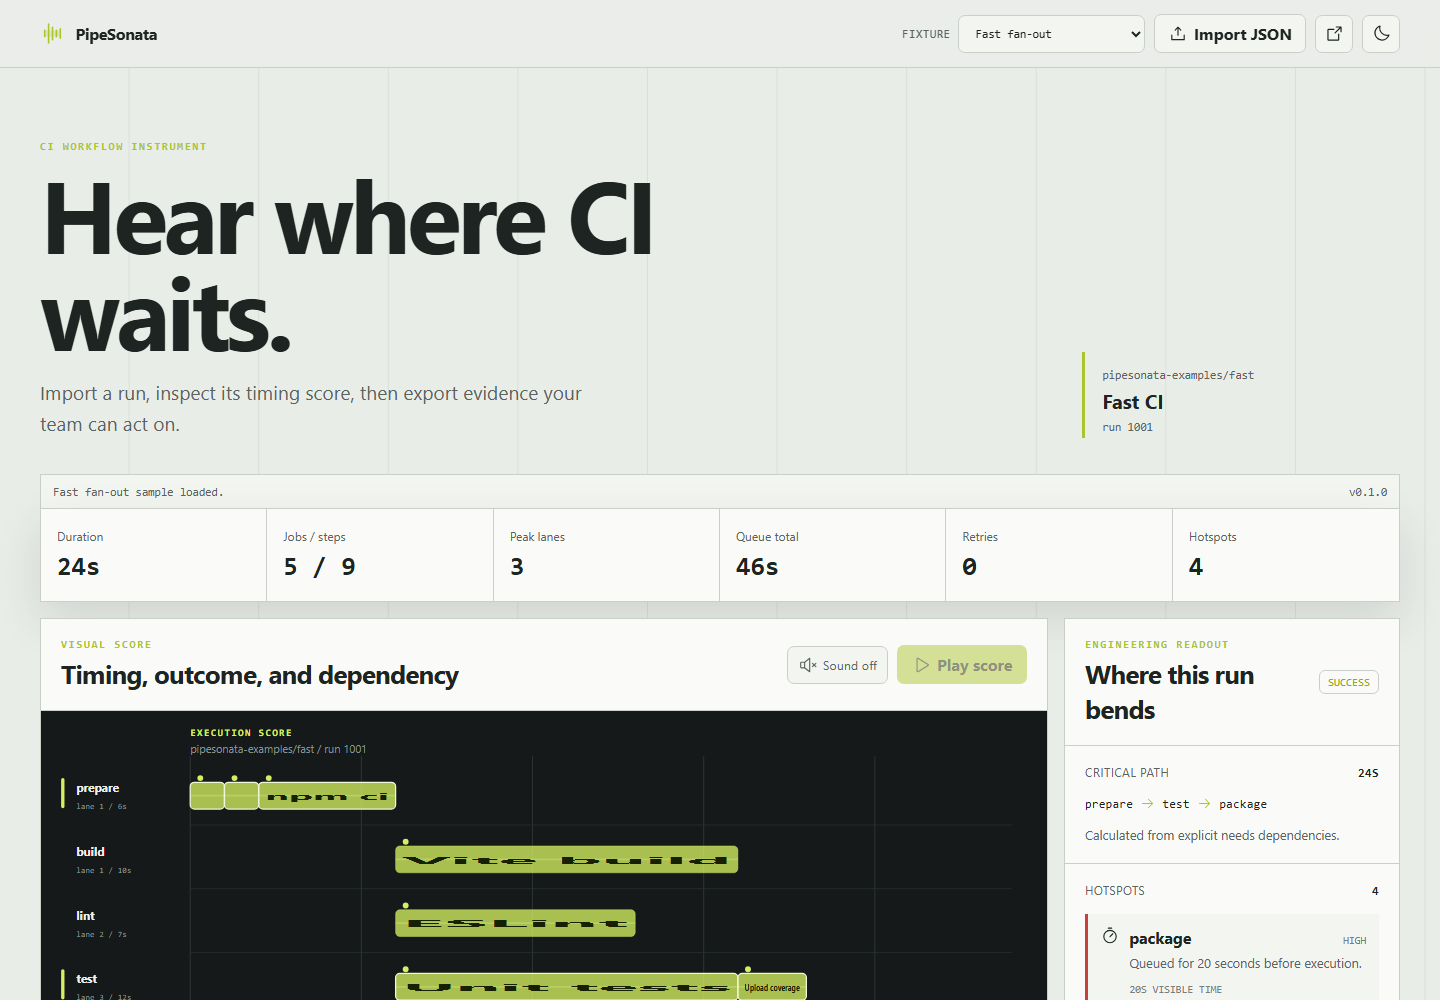
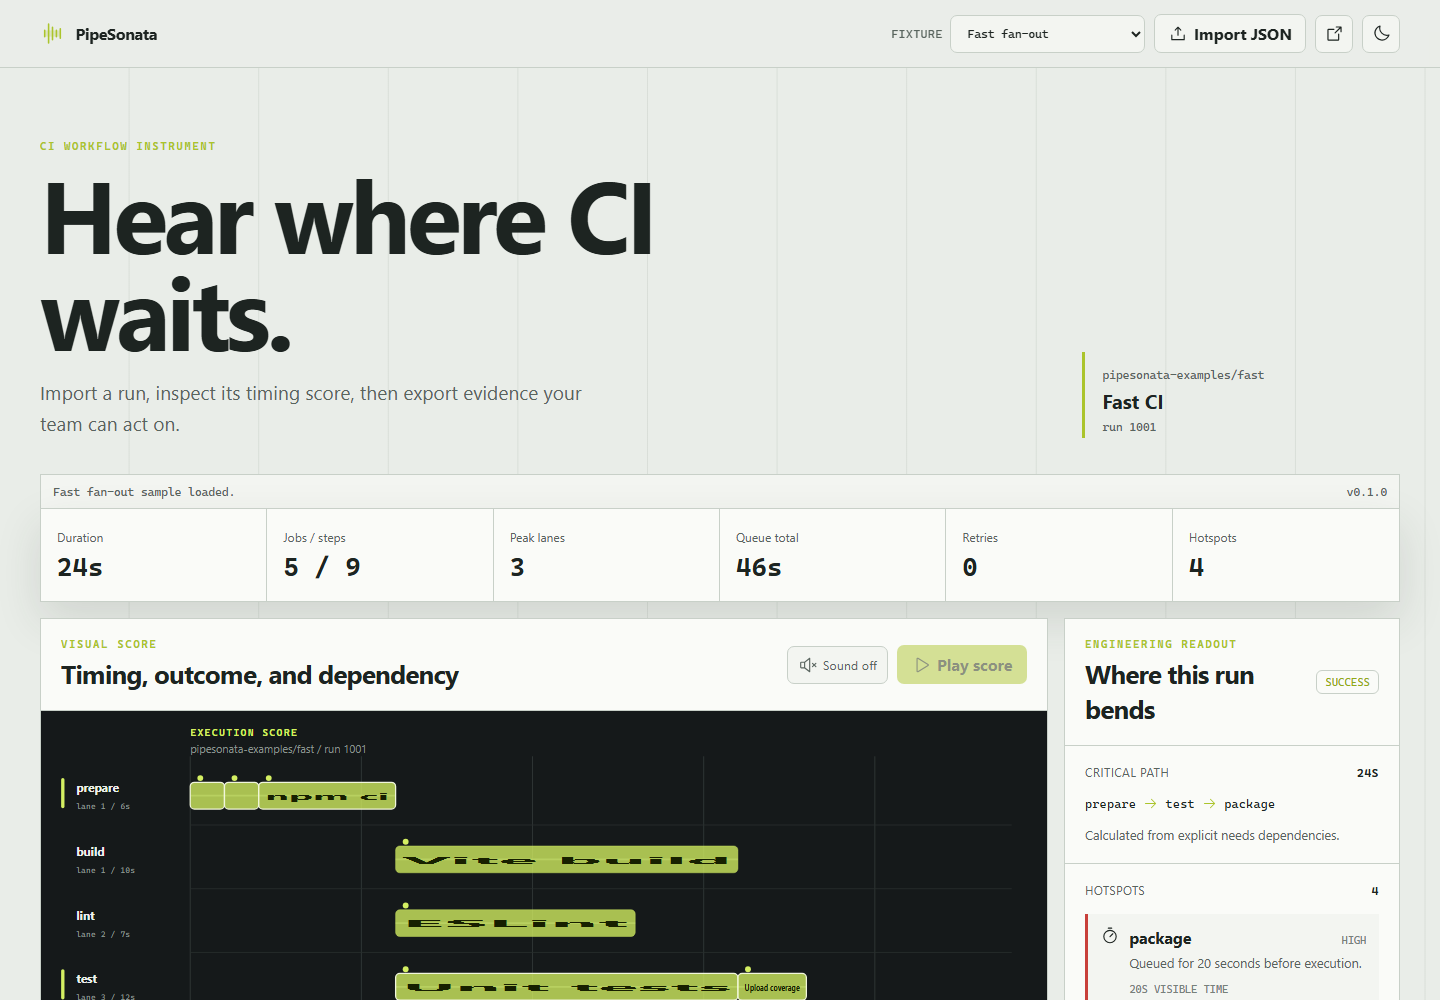
release: prepare v0.1.0

diff --git a/tests/integration/toolingScripts.test.ts b/tests/integration/toolingScripts.test.ts
@@ -1,0 +1,80 @@
+import { spawnSync } from "node:child_process";
+import { copyFile, mkdir, mkdtemp, rm, unlink, writeFile } from "node:fs/promises";
+import { tmpdir } from "node:os";
+import path from "node:path";
+
+import { afterEach, describe, expect, it } from "vitest";
+
+const temporaryDirectories: string[] = [];
+
+function runGit(cwd: string, arguments_: string[]) {
+  const result = spawnSync("git", arguments_, { cwd, encoding: "utf8" });
+  if (result.status !== 0) {
+    throw new Error(result.stderr || result.stdout);
+  }
+}
+
+afterEach(async () => {
+  await Promise.all(
+    temporaryDirectories
+      .splice(0)
+      .map((directory) => rm(directory, { recursive: true, force: true })),
+  );
+});
+
+describe("release tooling", () => {
+  it("skips tracked paths deleted during a rename while scanning new files", async () => {
+    const fixtureRoot = await mkdtemp(path.join(tmpdir(), "pipesonata-secret-scan-"));
+    temporaryDirectories.push(fixtureRoot);
+    const scriptsDirectory = path.join(fixtureRoot, "scripts");
+    await mkdir(scriptsDirectory);
+    await writeFile(path.join(fixtureRoot, "deleted.txt"), "safe tracked content\n", "utf8");
+    await writeFile(path.join(fixtureRoot, "kept.txt"), "safe working content\n", "utf8");
+    runGit(fixtureRoot, ["init"]);
+    runGit(fixtureRoot, ["add", "deleted.txt", "kept.txt"]);
+    await unlink(path.join(fixtureRoot, "deleted.txt"));
+    await copyFile(
+      path.resolve("scripts", "scan-secrets.mjs"),
+      path.join(scriptsDirectory, "scan-secrets.mjs"),
+    );
+    await copyFile(
+      path.resolve("scripts", "git_files.mjs"),
+      path.join(scriptsDirectory, "git_files.mjs"),
+    );
+
+    const scan = spawnSync(process.execPath, [path.join(scriptsDirectory, "scan-secrets.mjs")], {
+      cwd: fixtureRoot,
+      encoding: "utf8",
+    });
+
+    expect(scan.status, scan.stderr).toBe(0);
+    expect(scan.stdout).toContain("Secret scan passed");
+  });
+
+  it("creates an archive from a non-ASCII workspace with relative tar paths", async () => {
+    const fixtureRoot = await mkdtemp(path.join(tmpdir(), "pipesonata-tar-"));
+    temporaryDirectories.push(fixtureRoot);
+    const workspace = path.join(fixtureRoot, "管道乐章");
+    await mkdir(path.join(workspace, "staging", "package"), { recursive: true });
+    await mkdir(path.join(workspace, "release"), { recursive: true });
+    await writeFile(
+      path.join(workspace, "staging", "package", "result.txt"),
+      "real release content\n",
+      "utf8",
+    );
+
+    const archive = spawnSync(
+      "tar",
+      ["-czf", "release/package.tar.gz", "-C", "staging", "package"],
+      { cwd: workspace, encoding: "utf8" },
+    );
+    expect(archive.status, archive.stderr).toBe(0);
+
+    const listing = spawnSync("tar", ["-tzf", "release/package.tar.gz"], {
+      cwd: workspace,
+      encoding: "utf8",
+    });
+    expect(listing.status, listing.stderr).toBe(0);
+    expect(listing.stdout).toContain("package/result.txt");
+  });
+});

diff --git a/vite.config.ts b/vite.config.ts
@@ -11,6 +11,9 @@ export default defineConfig({
   test: {
     environment: "jsdom",
     include: ["tests/unit/**/*.test.ts", "tests/integration/**/*.test.ts"],
+    // The release-tooling tests spawn tar and Git subprocesses. Running test
+    // files serially keeps the verification run reliable on Windows runners.
+    fileParallelism: false,
     coverage: {
       provider: "v8",
       reporter: ["text", "json-summary", "html"],

diff --git a/docs/releases/v0.1.0.md b/docs/releases/v0.1.0.md
@@ -1,0 +1,53 @@
+# PipeSonata v0.1.0
+
+PipeSonata v0.1.0 is the first public release of the local-first CI timing instrument.
+
+## Highlights
+
+- Import a combined GitHub Actions run fixture or a standard run/jobs response pair.
+- Inspect normalized job and step timing, queueing, attempts, retries, failures, observed
+  concurrency, dependency critical path, repeated installs, and unstable work.
+- Read the same deterministic analysis as a D3 execution score or opt-in WebAudio performance.
+- Export accessible SVG, 2x PNG, MIDI-like note JSON, and a credential-redacted Markdown report.
+- Start offline with three synthetic MIT fixtures: fast fan-out, serial bottleneck, and flaky browser
+  suite.
+
+## Quality evidence
+
+- 35 Vitest unit and integration tests.
+- 5 real Chromium E2E paths covering fixtures, import, error preservation, four downloads, keyboard
+  focus, theme persistence, reduced motion, and a 390 px viewport.
+- Core coverage baseline: 99.01% lines, 100% functions, 90.5% branches, 99.04% statements.
+- Official npm advisory audit: 0 vulnerabilities at release preparation.
+- Extracted static release archive loaded again in Chromium before publication.
+
+## Release assets
+
+- `pipesonata-v0.1.0-web-static.tar.gz`
+- `pipesonata-v0.1.0-web-demo.tar.gz`
+- `pipesonata-v0.1.0-source-any.tar.gz`
+- `pipesonata-v0.1.0-sbom-any.cdx.json`
+- `pipesonata-v0.1.0-provenance-any.json`
+- `SHA256SUMS.txt`
+
+Verify every asset against `SHA256SUMS.txt` before redistribution.
+
+## Privacy boundary
+
+The shipped application is static and has no upload endpoint, account, analytics, advertising, or
+persistent workflow-data store. Imported files remain in the browser tab. Text reports redact common
+credential patterns, but repository names, commit identifiers, actors, internal labels, SVG, PNG,
+and note JSON still require human review before sharing.
+
+## Known limits
+
+- One workflow run at a time; no historical comparison or automatic GitHub polling.
+- Explicit `needs` metadata is required for an exact dependency critical path. Without it, the
+  longest observed job is labeled as a lower bound.
+- Runs with more than 100 jobs require callers to merge paginated GitHub jobs responses.
+- The note JSON is an interchange schedule, not a Standard MIDI File.
+- PNG export depends on browser canvas support; audio is an interpretive aid, not an accessibility
+  replacement.
+
+The next milestone targets historical comparison, a short-lived minimum-scope GitHub adapter,
+Standard MIDI File export, richer accessible narration, and Web Worker analysis for large graphs.

diff --git a/README.zh-CN.md b/README.zh-CN.md
@@ -8,6 +8,9 @@
 **听见 CI 在哪里等待。** PipeSonata 把 GitHub Actions 一次运行中的耗时、排队、重试、失败和
 并行度转化为可检查的可视乐谱、可选的 WebAudio 演奏，以及可以导出的工程证据。
 
+**本地优先输入。确定性诊断。视觉、音频与可携带证据。**
+
+[当前状态：v0.1.0](https://github.com/KanadeK/pipesonata/releases/tag/v0.1.0) ·
 [在线演示](https://kanadek.github.io/pipesonata/) ·
 [English](README.md) ·
 [输入格式](docs/INPUT_FORMAT.md) ·
@@ -53,6 +56,13 @@ npm run demo
 
 该命令会在 `demo-output/` 生成四类文件，并刷新 README 使用的真实界面截图。
 生成文件清单和人工验收步骤见[可复现实演](docs/DEMO.md)。
+
+## 使用界面
+
+- **Web 界面：**用于选择样例、导入本地文件、检查时间线、主动播放声音、查看诊断并执行四种导出。
+- **自动化命令行：**npm 和 Make 任务提供格式化、测试、基准、演示、打包与发布检查，无需后端服务。
+- **核心 API：**`src/core/` 中的纯 TypeScript 函数和 `src/adapters/` 中的适配器可以直接测试。
+  v0.1.0 的 npm 包保持 private，因此这套源码 API 暂不承诺已发布库的语义化版本兼容性。
 
 ## 导入 GitHub Actions 数据
 
@@ -158,7 +168,7 @@ npm run release-check
 来源证明和校验和文件。`release-check` 会验证初始里程碑历史、作者与提交者身份、归档内容、
 校验和、干净来源状态，以及从解压静态包启动的浏览器烟测。
 
-当前发布基线包含 33 项 Vitest 测试和 5 条真实 Chromium 路径。核心代码行覆盖率 99.01%、
+当前发布基线包含 35 项 Vitest 测试和 5 条真实 Chromium 路径。核心代码行覆盖率 99.01%、
 函数覆盖率 100%、分支覆盖率 90.5%、语句覆盖率 99.04%，各项门槛均为 80%。基准方法与实测
 数据见[性能基准](docs/BENCHMARK.md)。
 

diff --git a/README.md b/README.md
@@ -9,6 +9,9 @@
 and concurrency into one inspectable visual score, an optional WebAudio performance, and
 engineering evidence you can export.
 
+**Local-first input. Deterministic diagnostics. Visual, audio, and portable evidence.**
+
+[Status: v0.1.0](https://github.com/KanadeK/pipesonata/releases/tag/v0.1.0) ·
 [Live demo](https://kanadek.github.io/pipesonata/) ·
 [中文说明](README.zh-CN.md) ·
 [Input format](docs/INPUT_FORMAT.md) ·
@@ -54,6 +57,16 @@ npm run demo
 
 This writes four generated files to `demo-output/` and refreshes the checked-in README screenshot.
 See [Reproducible demo](docs/DEMO.md) for the generated file list and manual acceptance steps.
+
+## Interfaces
+
+- **Web UI:** the primary interface for fixture selection, local file import, timeline inspection,
+  opt-in playback, diagnostics, and four export controls.
+- **Automation CLI:** npm and Make targets expose formatting, tests, benchmark, demo, packaging, and
+  release checks without a backend service.
+- **Core API:** pure TypeScript functions under `src/core/` and adapters under `src/adapters/` are
+  directly testable. v0.1.0 keeps the npm package private, so this source API is not yet a
+  semver-stable published library.
 
 ## Import GitHub Actions data
 
@@ -163,7 +176,7 @@ provenance, and checksum assets. `release-check` validates the initial milestone
 committer identity, archive contents, checksums, clean provenance, and a browser smoke test from the
 extracted static archive.
 
-The current suite has 33 Vitest tests and 5 real Chromium paths. Core coverage is 99.01% lines,
+The current suite has 35 Vitest tests and 5 real Chromium paths. Core coverage is 99.01% lines,
 100% functions, 90.5% branches, and 99.04% statements on the release baseline. Coverage gates are
 80% for every metric. See [Benchmark](docs/BENCHMARK.md) for the reproducible microbenchmark method
 and measured results.

diff --git a/CHANGELOG.md b/CHANGELOG.md
@@ -4,6 +4,8 @@ All notable changes to PipeSonata are documented in this file.
 
 ## [Unreleased]
 
+## [0.1.0] - 2026-07-23
+
 - Repository foundation, deterministic quality gates, and public-project governance.
 - Validated GitHub Actions run parsing, dependency critical paths, concurrency metrics, engineering
   hotspots, stable score notes, and credential-safe exports.
@@ -18,3 +20,10 @@ All notable changes to PipeSonata are documented in this file.
 - Added locked CI, dependency and credential auditing, verified Pages deployment, tag release
   automation, versioned tar archives, CycloneDX SBOM, provenance, SHA-256 checksums, and extracted
   browser smoke testing.
+- Hardened the credential scanner and source packager against deleted index entries during
+  cross-platform file renames, backed by a temporary Git repository regression test.
+- Switched tar creation to workspace-relative paths and added a non-ASCII workspace regression test
+  after Windows `bsdtar` rejected an absolute release path.
+
+[Unreleased]: https://github.com/KanadeK/pipesonata/compare/v0.1.0...HEAD
+[0.1.0]: https://github.com/KanadeK/pipesonata/releases/tag/v0.1.0

diff --git a/docs/RELEASING.md b/docs/RELEASING.md
@@ -31,9 +31,9 @@ release jobs never use it.
 ```text
 pipesonata-v0.1.0-web-static.tar.gz
 pipesonata-v0.1.0-web-demo.tar.gz
-pipesonata-v0.1.0-source.tar.gz
-pipesonata-v0.1.0-sbom.cdx.json
-pipesonata-v0.1.0-provenance.json
+pipesonata-v0.1.0-source-any.tar.gz
+pipesonata-v0.1.0-sbom-any.cdx.json
+pipesonata-v0.1.0-provenance-any.json
 SHA256SUMS.txt
 ```
 
